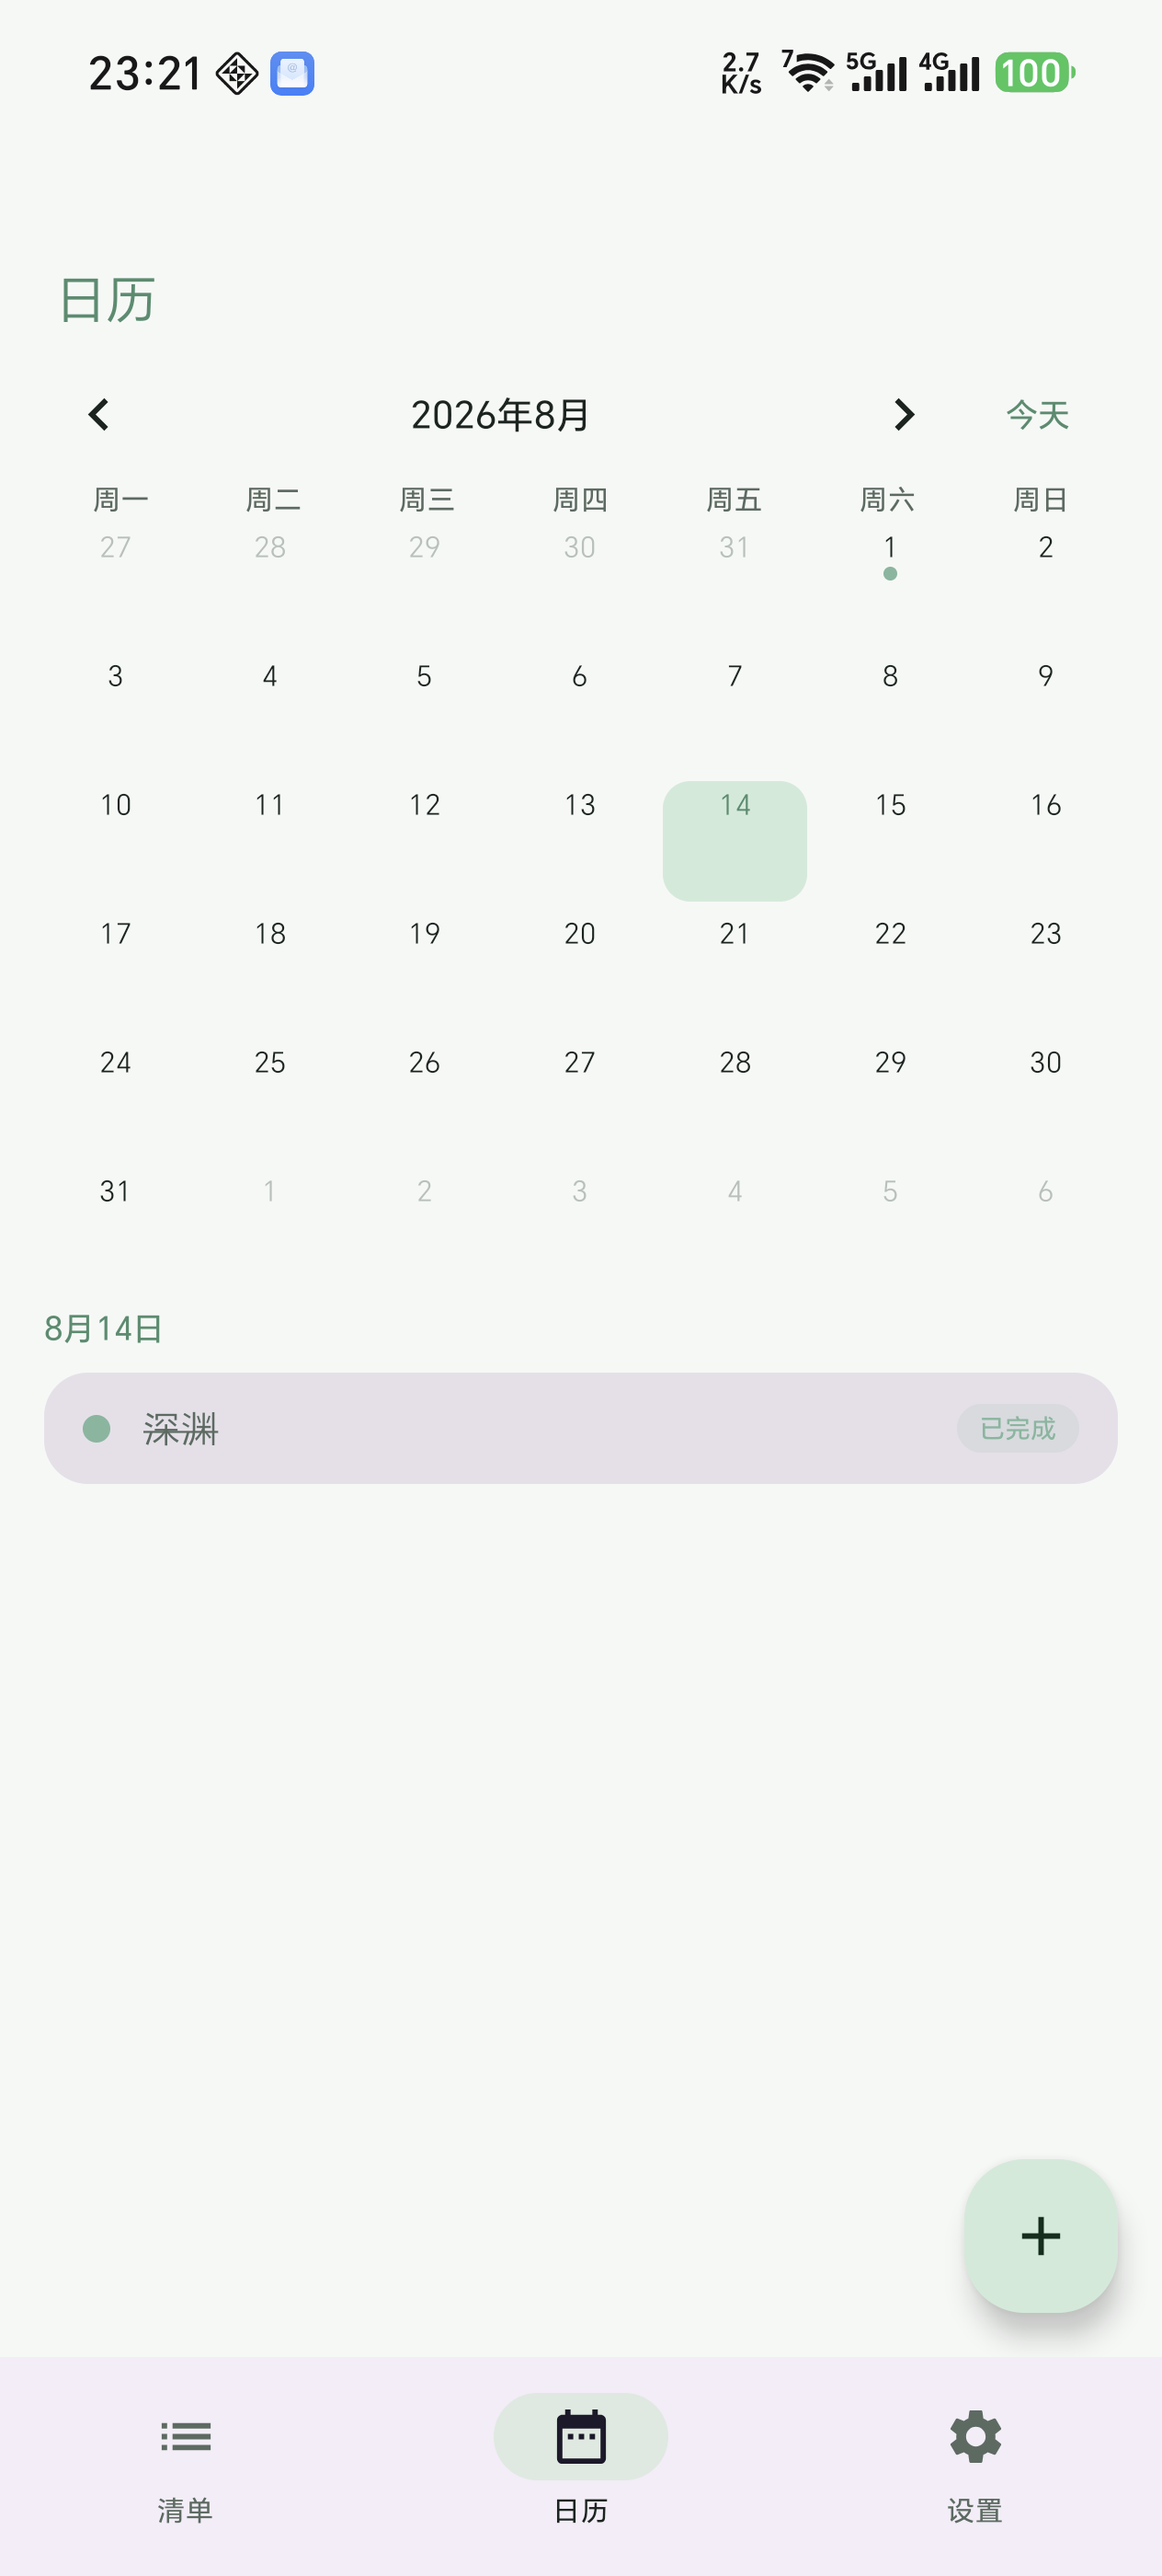
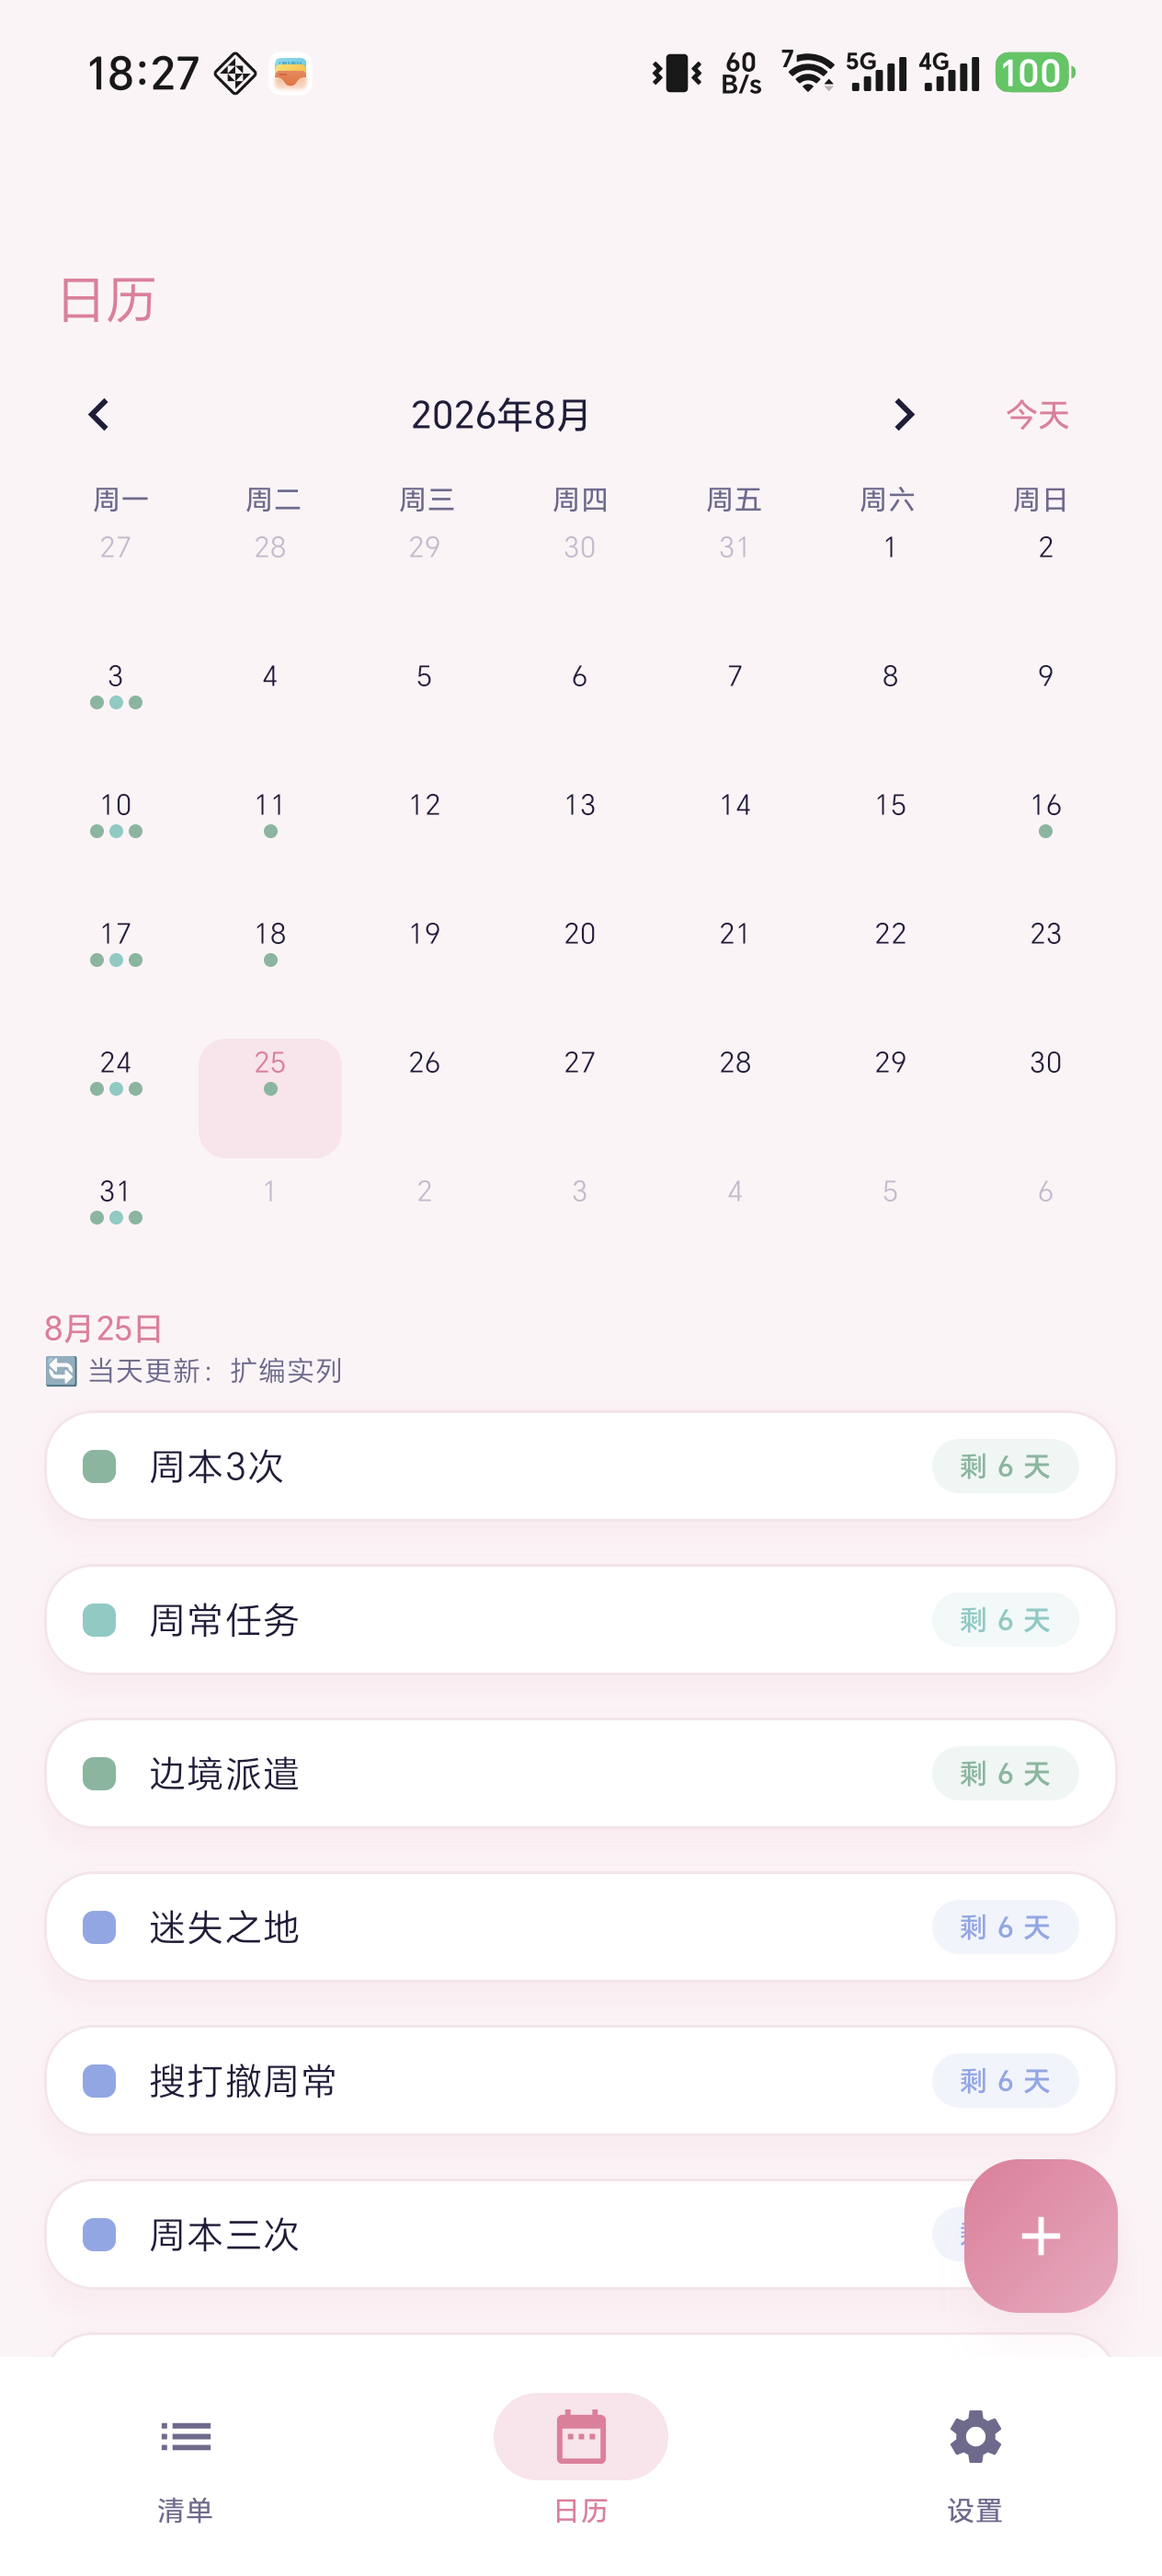
docs: 重写 README——功能详解配真机截图（主页/日历/新增/分类/设置/小组件），补工作原理与技术栈说明

diff --git a/README.md b/README.md
@@ -1,46 +1,111 @@
 # 循环清单（Gametodolist）
 
-一款 Android 循环待办清单 App：任务按规则自动循环（每天 / 每 N 天 / 每周几 / 每月几日），到期未完成自动作废并生成新周期，已完成划线保留不消失。配套可交互的桌面小组件（点按即完成，支持自定义壁纸与裁剪）。
+> 一款为「周期性事务」而生的 Android 待办清单：定好规则，剩下的交给时间。
 
-## 截图
+周本刷新、月卡续期、深渊结算、每月还款日……这些事不是"做一次就完"，而是**每隔一段时间准时回来找你**。普通待办 App 里你要么手动重建，要么被过期任务刷屏。循环清单的思路是：任务按规则**自动循环**，到期没做就**自动作废**并生成新周期，做完的**划线留档**不消失——配上一块能直接点按完成的桌面小组件，抬头一看就知道今天该干什么。
+
+![Platform](https://img.shields.io/badge/平台-Android%208.0%2B-3DDC84)
+![Kotlin](https://img.shields.io/badge/Kotlin-Compose%20M3-7F52FF)
+![Version](https://img.shields.io/badge/版本-1.0.1-E3709E)
 
 <p>
-  <img src="docs/screenshots/home.png" width="260" alt="主页" />
-  <img src="docs/screenshots/calendar.png" width="260" alt="日历" />
-  <img src="docs/screenshots/widget.png" width="260" alt="桌面小组件" />
+  <img src="docs/screenshots/home.png" width="250" alt="主页" />
+  <img src="docs/screenshots/calendar.png" width="250" alt="日历" />
+  <img src="docs/screenshots/widget.png" width="250" alt="桌面小组件" />
 </p>
 
-## 功能
+## ✨ 功能亮点
 
-- **循环任务**：不循环（可设持续天数，到期作废可重新开启）/ 每 N 天 / 每周几（可多选）/ 每月几日（短月自动落到月末）；每周、每月可指定开始日期。
-- **显示时段**：整循环 / 长期有效 / 自定义 N 天。
-- **主页三分区**：未完成、已完成（划线，可撤销）、已作废（可编辑、可重新开启），再按分类分组；分类可折叠、左滑删除有确认。
-- **日历视图**：预演任意日期（含未来）的当天任务，循环更新日打点，一键回到今天。
-- **到期提醒**：精确闹钟（Android 14+ 未授权自动降级不崩溃），开机自动重排。
-- **桌面小组件**：按分类分组展示，点任务行即完成/取消，已完成区可展开收起；外观支持纯色（透明度）与自定义壁纸（亮度调节、按组件框选显示区域、比例预设）。
-- **分类管理**：增删改 + 预设色板 + emoji 图标。
+### 🔁 四种循环规则，覆盖所有"又来了"的场景
 
-## 技术栈
+| 规则 | 适合什么 | 举例 |
+| --- | --- | --- |
+| 不循环 | 一次性任务（可设持续天数） | 限时活动，到期作废不续期 |
+| 每 N 天 | 固定间隔刷新 | 每 14 天的峰值推定、每 30 天的月卡 |
+| 每周几 | 周本 / 周常（可多选几天） | 每周一刷新的周本三次 |
+| 每月几日 | 月度结算（短月自动落到月末） | 每月 16 日的深镜螺旋 |
+
+- 每周 / 每月规则可**指定开始日期**：首个循环不早于该日，适合"下版本才开始"的任务。
+- 每条任务可独立设置**显示时段**：整个循环都展示、长期有效，或只在截止前 N 天出现——不重要的不占地方。
+- 到期未完成不会默默堆积：自动作废归档，同时新的周期已经排好。
+
+<p>
+  <img src="docs/screenshots/edit.png" width="250" alt="新增清单" />
+</p>
+
+### 📋 主页三分区：要做的、做完的、作废的，一眼分清
+
+- **未完成**：按分类分组展示，剩余天数胶囊提示紧急度（≤2 天变橙、已截止变红）。
+- **已完成**：划线留档不消失，点实心勾随时撤销——误点也不怕。
+- **已作废**：过期任务在这里躺着，可以点击编辑（保存即复活）、左滑删除，或"重新开启"让它从今天重新生效。
+- 分类可折叠收起；左滑任务露出删除按钮，点击才删除，删除前有确认弹窗（可选"不再提醒"）。
+
+<p>
+  <img src="docs/screenshots/home.png" width="250" alt="主页-未完成" />
+  <img src="docs/screenshots/home_done.png" width="250" alt="主页-已完成" />
+</p>
+
+### 🗓 日历预演：看看未来任何一天要做什么
+
+- 点任意日期（包括未来），引擎现场推算当天的任务列表——下周三忙不忙，翻一翻就知道。
+- 日历上的圆点标记**循环更新日**，哪天刷新一目了然；翻远了点"今天"一键回来。
+
+### 🔔 到期提醒：该响的时候一定响
+
+- 截止前 1 小时精确闹钟通知；Android 14+ 未授权精确闹钟时自动降级为普通闹钟，不崩溃不丢提醒。
+- 重启手机后开机自动重排所有提醒，不用重新打开 App。
+
+### 🖼 桌面小组件：不用打开 App，点一下就完成
+
+- 任务按分类分组展示，**点整行即完成/取消**，已完成区可展开收起。
+- 外观随你折腾：**纯色**（透明度可调）或**自定义壁纸**（亮度可调），壁纸支持按组件**框选显示区域**——选框可拖动、双指缩放，带 1:1 / 4:3 / 16:9 等比例预设，所见即所得。
+- 换壁纸是"暂存式提交"：选好图裁好区域，点保存才生效；中途反悔退出，旧壁纸原样保留。
+
+<p>
+  <img src="docs/screenshots/widget.png" width="260" alt="桌面小组件-壁纸模式" />
+  <img src="docs/screenshots/settings.png" width="240" alt="设置页" />
+</p>
+
+### 🎨 分类与主题
+
+- 分类增删改 + 预设色板，游戏一个色、生活一个色，清单不再大锅烩。
+- 5 套浅色主题预设（默认图鉴紫），设置页点一下就换装。
+
+<p>
+  <img src="docs/screenshots/category.png" width="250" alt="分类管理" />
+</p>
+
+### 🤏 细节体验
+
+- 编辑页有改动时返回会弹"放弃修改？"确认，手滑不丢编辑成果。
+- 高刷新率适配：窗口钉住 120Hz 显示模式，解除部分机型（荣耀 / MagicOS）对第三方应用的 60Hz 渲染封顶，滑动起步不卡。
+- 主页与日历底部留白避让悬浮添加按钮，最后一行任务永远点得到。
+
+## 🧠 它是怎么工作的
+
+每个任务拆成两层：**模板**存循环规则（每 N 天 / 每周几……），**实例**存某一个周期的窗口与状态（进行中 / 已完成 / 已作废）。每天（以及你每次打开 App、改动任务）结算器都会跑一遍：到期的实例作废归档，按模板规则补上新的实例。所以"编辑模板"不会弄丢历史——过去的完成记录都是独立实例，原样保留。
+
+## 🛠 技术栈
 
 Kotlin · Jetpack Compose（Material 3）· Room · Hilt · WorkManager · Glance（桌面小组件）
 
 - minSdk 26 / targetSdk 35
-- 架构：domain 纯函数业务规则（循环引擎/结算器，JVM 单测）+ Room 数据层 + 统一写后管线（结算→重排提醒→刷新组件）+ Compose UI + Glance 小组件
-- 42 例单元/集成测试（JUnit + Robolectric 真实 Room 迁移测试）
+- 架构：`domain` 纯函数业务规则（循环引擎 / 结算器 / 裁剪计算，不碰 Android API）+ Room 三表数据层（模板 / 实例 / 分类，带迁移与唯一索引）+ 统一写后管线（任何写操作后自动结算 → 重排提醒 → 刷新小组件）+ Compose UI + Glance 小组件
+- 50 例单元 / 集成测试：业务规则走 JVM 纯函数测试，数据库迁移与"编辑模板不丢实例历史"等数据完整性走 Robolectric 真实 Room（内存库）集成测试
 
-## 构建
+## 📦 构建
 
 需要 JDK 17 与 Android SDK（API 35）：
 
 ```bash
 ./gradlew assembleDebug        # Windows: gradlew.bat assembleDebug
-./gradlew test                 # 运行单元测试
+./gradlew test                 # 运行单元 / 集成测试
 ```
 
 也可以直接用 Android Studio 打开本目录。
 
-## 文档
+## 📚 文档
 
 - [DEVELOPMENT.md](DEVELOPMENT.md) — 架构设计、各模块职责、关键设计决策与开发约定
 - [CHANGELOG.md](CHANGELOG.md) — 更新日志
-- [AGENTS.md](AGENTS.md) — 项目速览与构建/调试要点（面向协作者与 AI 助手）
+- [AGENTS.md](AGENTS.md) — 项目速览与构建 / 调试要点（面向协作者与 AI 助手）
